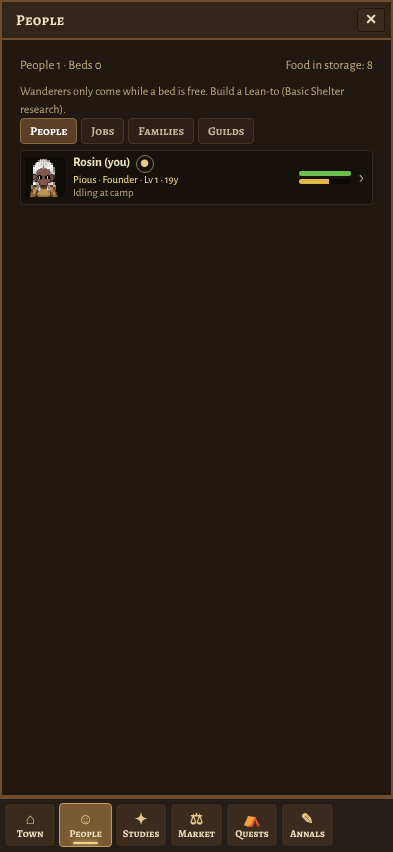
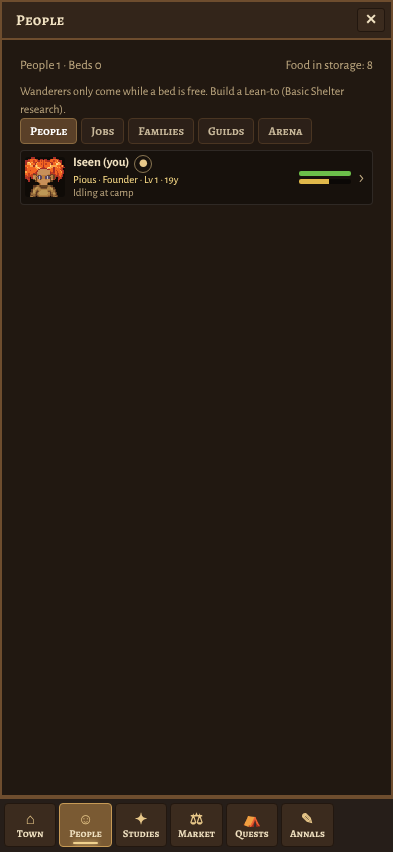
Ranch and arena: fold the note into HISTORY.md, version 0.85.0
Claude-Session: https://claude.ai/code/session_01FrfAUuhsXVqJw4LMmHTzQN

Changed region(s): [[0.0611, 0.1831, 0.3969, 0.2441], [0.6718, 0.1526, 0.7939, 0.1831]]

diff --git a/docs/HISTORY.md b/docs/HISTORY.md
@@ -4495,3 +4495,102 @@ town without airships plays out as before (checked: fresh towns byte-identical t
   the news bubble the pirates coming and a hunter overhead. Inventory icons `airship_*` in customIcons.ts.
 - `window.__skies('airship' | 'fly' | 'pirates' | 'hunter')` on the phone page for previews (`sim/skiesPreview.ts`).
 - Tests: `test/skies.test.ts`.
+
+# The monster ranch, and tournaments in the arena
+
+Two DLC-sized features (the owner's asks). Both run only with the autopilot on, use their own side streams
+(`${seed}:ranch:...`, `${seed}:arena:...`), and keep their state in new optional fields (`s.ranch`, `s.arena`): no save
+version bump.
+
+## The monster ranch
+
+`src/shared/data/ranch.ts` (numbers, traits, names) and `src/shared/sim/ranch.ts` (rules). `s.ranch` (`RanchState`:
+`beasts`, counts of `bred`, `sold`, `died`, `lost`, a `log`).
+
+- **Where beasts come from:** a beast a Beast Tamer won over (data/taming.ts) and still standing when the raid ends is
+  brought home (`ranchRaidOver`, from raids.ts `endRaid`); with a ranch standing and a Beastmaster (or a Beast Tamer)
+  at home, a beast left down on the field may be roped and brought in (`CATCH_DOWNED`). No bosses.
+- **The building:** the Beast Ranch (`RANCH_BUILDING`, 4x3, Domestication, merged into BUILDINGS; in the planner's
+  `NEVER` and the castle's `OUTSIDE`). The town lays one itself (`buildRanch`) once it holds a beast (or has a Beast
+  Tamer) and `RANCH_PEOPLE` grown-ups, or at `RANCH_PEOPLE_UNASKED` (6) with none, for its Beastmaster to catch beasts, and a second (`RANCHES_MOST`) when the first is full. Each holds `RANCH_ROOM`
+  (6); without one the town keeps `LOOSE_ROOM` (2) tethered by the fire. Pack picture: the Village pack's awning as a
+  shelter, the Fields pack's rails, the Medieval Field Work pack's hay, a bucket for the trough (`PICKS.beast_ranch`).
+- **The Beastmaster:** an operator role (`OPERATORS.beast_ranch`, skill Animals). Trains every beast each morning
+  (`TRAIN_XP`, more by Animals and the Gentle trait; levels to `BEAST_LEVEL_MOST`, each `PER_LEVEL` stronger), tends
+  the sick (`TEND_CURE`), mends the hurt faster and catches beasts on the field. Breeding and training count as the
+  deed `beasts` (titles Friend of Beasts, Beastmaster, Lord of the Menagerie).
+- **The morning** (`ranchHourly` at `RANCH_HOUR` 7; jobs are set afresh every hour): fed from the stores (`feedOf` by
+  tier; grazers (`GRAZERS`) grain and greens first, the rest meat and fish; `HUNGRY_FLEE` days unfed and it breaks out);
+  mending, old age (`lifespanOf` by tier, old from `OLD_SHARE`, `OLD_DEATH`), sickness (`SICK_*`: more when hungry or
+  crowded; deadly untended); breeding (a grown, fed male and female of one kind: `BREED_DAILY`; the cub takes each
+  parent's trait at `INHERIT`, a new one at `MUTATE`, up to `TRAITS_MOST`; `gen` counts the generations); the work's
+  haul; and selling (over room, or the stores under `SELL_FOOD_DAYS` of food, the least worth first; the old at 90% of
+  their span for half; ledger line `ranch`).
+- **Traits** (`BEAST_TRAITS`): strong, hardy, swift, fierce, keen-nosed, gentle, fertile, long-lived, and the bad ones
+  sickly and skittish, each a multiplier on blows, health, the hunt, the haul, training, breeding, lifespan or sickness.
+- **Jobs** (`setJobs`): a rideable beast (`RIDEABLE`, tier 1.5 or more) becomes a mount for a fighter (guards first);
+  the fiercest meat-eaters guard (a third of the herd, every Fierce one) and fight beside the town in every raid
+  (`ranchAllies`, from `startRaid`; `Raider.ranch`; struck down, it's hurt, or dies at 25%); the rest hunt (meat, a
+  hide now and then, `HUNT_HURT`) or, grazers, haul (wood or stone). A rider strikes harder in raids (`mountFight`, in
+  raids.ts `defenderAttack` and the mages' fire beside `guildFight`: `rideFight` by the mount's tier).
+- **The player:** the `ranch` command: `op: 'name'` (any name up to 24 letters; `named`) or `op: 'keep'` (never sold).
+- **Seen:** `snapshot.ranch` (`RanchView`) on the Market menu's **Ranch** tab (`panel/ranchPanel.ts`: a card a beast,
+  health bar, traits as chips (the bad ones red), tapped: where it came from, its parents and generation, lifespan, diet,
+  level, arena record, worth, a name box, Keep / Allow its sale). `snapshot.ranchPens` (`beastHome`: each beast's pen
+  rectangle in world px) drives `ranchFigures` in main.ts: a third `MapRaiders` (`penned`) draws each beast from its
+  creature sheet ambling between spots in its pen (by its id and the clock, `PEN_STEP_MS`).
+
+## Tournaments and the arena
+
+`src/shared/data/arena.ts` and `src/shared/sim/arena.ts`. `s.arena` (`ArenaState`: the season, its `ladder`, the
+`card`, the `bout`, `past` bouts, `champions`, `renown`, who `rested` when).
+
+- **The building:** the Arena (`ARENA_BUILDING`, 5x4, Spear Hunting), laid by the town itself (`buildArena`) at
+  `ARENA_PEOPLE` (7) grown-ups with half as much again of its makings in store. Its job is the Arena Master
+  (`OPERATORS.arena`, Social: a bigger gate). Pack picture: a ring of the Village pack's palisade stakes round trodden
+  sand, logs for benches, a weapon rack, lanterns and the sword sign at the gate.
+- **The season** (`arenaHourly`): the first `SEASON_DAYS` (6) days of spring, summer and autumn. At `CARD_HOUR` (noon)
+  a bout is posted (`postCard`): every other day a grown, fit ranch beast if there is one, else one of the town's
+  fighters (rested `REST_DAYS`, fit, at home; never the founder; the keenest by level, ambition and skill), against a
+  visiting champion: a troop of a power the town knows (its raid kind's non-beast foes, named "Varn the Red of The Red
+  Brotherhood") or a wanderer of the road (`WANDERERS`); a beast against a beast-keeper's beast of a near tier. The
+  visitor is scaled to `MATCH_LEAST`..`MATCH_MOST` of the town fighter's might, so bouts are close. Not on a knights'
+  tournament day.
+- **The book:** the odds from the match (`odds`, paid less `HOUSE_CUT`, `PAYS_LEAST`..`PAYS_MOST`). Townsfolk bet as
+  the card goes up (`townsfolkBet`: by nature, `BET_LEAN`; a share of their purse over `BET_KEEP`; most back the town,
+  the greedy the favourite). The player bets from the treasury until the bout (`arenaBet`, the `arenaBet` command:
+  `PLAYER_BETS` steps, replacing any bet, 0 takes it back). A bout called off returns every bet.
+- **The bout** (`startBout` at `BOUT_HOUR` 17): shaped as a trip (`e.dest` `arena:<id>`, `arenaDestination`, scenery
+  `arena` → the ruins scene), fought by the expeditions' turn-based fight (`startBattle`/`stepBattle`, the beast as a
+  party fighter, `beastFighter`). The fighter is away in the ring (`ARENA_AWAY`; the snapshot says "the arena").
+  Watchable: `s.watching` the bout's id (ids from `BOUT_IDS`, apart from the town's own), found by `arenaTrip` in the
+  watch command, the snapshot's `watch`, `fightOn` and `fightOnScreen`. Each side yields under `YIELD`; only one struck
+  down outright may die (`ARENA_DEATH`, `BEAST_DEATH`, `VISITOR_DEATH`), so deaths are real but rare.
+- **The end** (`endBout`): harm and wounds carried back, experience (melee or ranged by the blows), the victory window
+  (`e.result`, kept `BOUT_LINGER` ticks), purses (`PURSE`, `LOSER_PURSE`; a beast's to the treasury), the deed `bouts`
+  (titles the Brawler, Gladiator, Champion of the Sand), the book settled, the gate (`GATE_BASE` + a grown-up's share,
+  the Arena Master's Social, renown; ledger line `arena`), renown (`RENOWN_WIN`/`RENOWN_LOSS` up to `RENOWN_MOST`, added
+  to every venue's attractiveness in shop.ts, fading out of season), travellers drawn in for the evening, and the ladder
+  (`WIN_POINTS`, `KO_POINTS`). The season's last bout is the final: `crown` gives the top of the ladder the crown (a
+  townsperson the title Champion of the Arena and `CROWN_PRIZE`; a beast a crown on its record; a visitor takes it
+  home), told in the event box.
+- **The knights' tournament** (sim/chivalry.ts `tourney`) is not duplicated: its jousts count on the arena's ladder and
+  fill its gate when the town has an arena (`noteJousts`).
+- **Seen:** `snapshot.arena` (`ArenaView`) on the People menu's **Arena** tab (`panel/arenaPanel.ts`: the season and
+  renown; the bout under way with Watch; tonight's card with the odds, the townsfolk's bets and the treasury's bet
+  buttons; the Standings table; past bouts; the champions). The news bubble has a gold notice for the card (to the
+  Arena tab) and for the bout under way (Watch).
+
+## Balance
+
+- The planner's research scoring gives +4 a building a topic opens; the ranch and the arena are left out of it
+  (`SELF_BUILT` in planner.ts), so towns study as before. Soak (25 days, settlers twice, knights, druids, werewolves,
+  orcs): every town that never built either plays out to the person as on main; the orc town built both and ran its
+  bouts with the same people and deaths as on main.
+
+## Fixed on the way
+
+- The roaming bands' map view (`roamers` in main.ts) was updated every snapshot but never rendered, so bands on the land
+  were never drawn; `roamers.render` (and the ranch's `penned.render`) are now called each frame.
+
+Tests: `test/ranch.test.ts`, `test/arena.test.ts`.

diff --git a/CLAUDE.md b/CLAUDE.md
@@ -145,7 +145,7 @@ opens a menu. Never launch Electron; the owner runs the desktop app themselves.
 - Run `npm run typecheck` and `npm test` after changes, and add tests for new rules in `test/`.
 - After CSS changes, check the braces balance and that each `@media` block holds only what it should. A broken
   `@media` block once wrecked the phone layout.
-- **The version (the owner's ask):** the ☰ menu ends with "Version 0.84.0 · <commit> · built <day>" (`gameVersion` in
+- **The version (the owner's ask):** the ☰ menu ends with "Version 0.85.0 · <commit> · built <day>" (`gameVersion` in
   `mobile/mobile.ts`; `tools/build-web.mjs` defines `__GAME_VERSION__` from package.json, `__GAME_COMMIT__` from
   `git rev-parse --short HEAD`, `__GAME_BUILT__` the build's day). With every merge to main, bump the minor version
   in `package.json` (0.3.0, 0.4.0, ...) in the merged branch, and tell the owner the new number afterwards.
